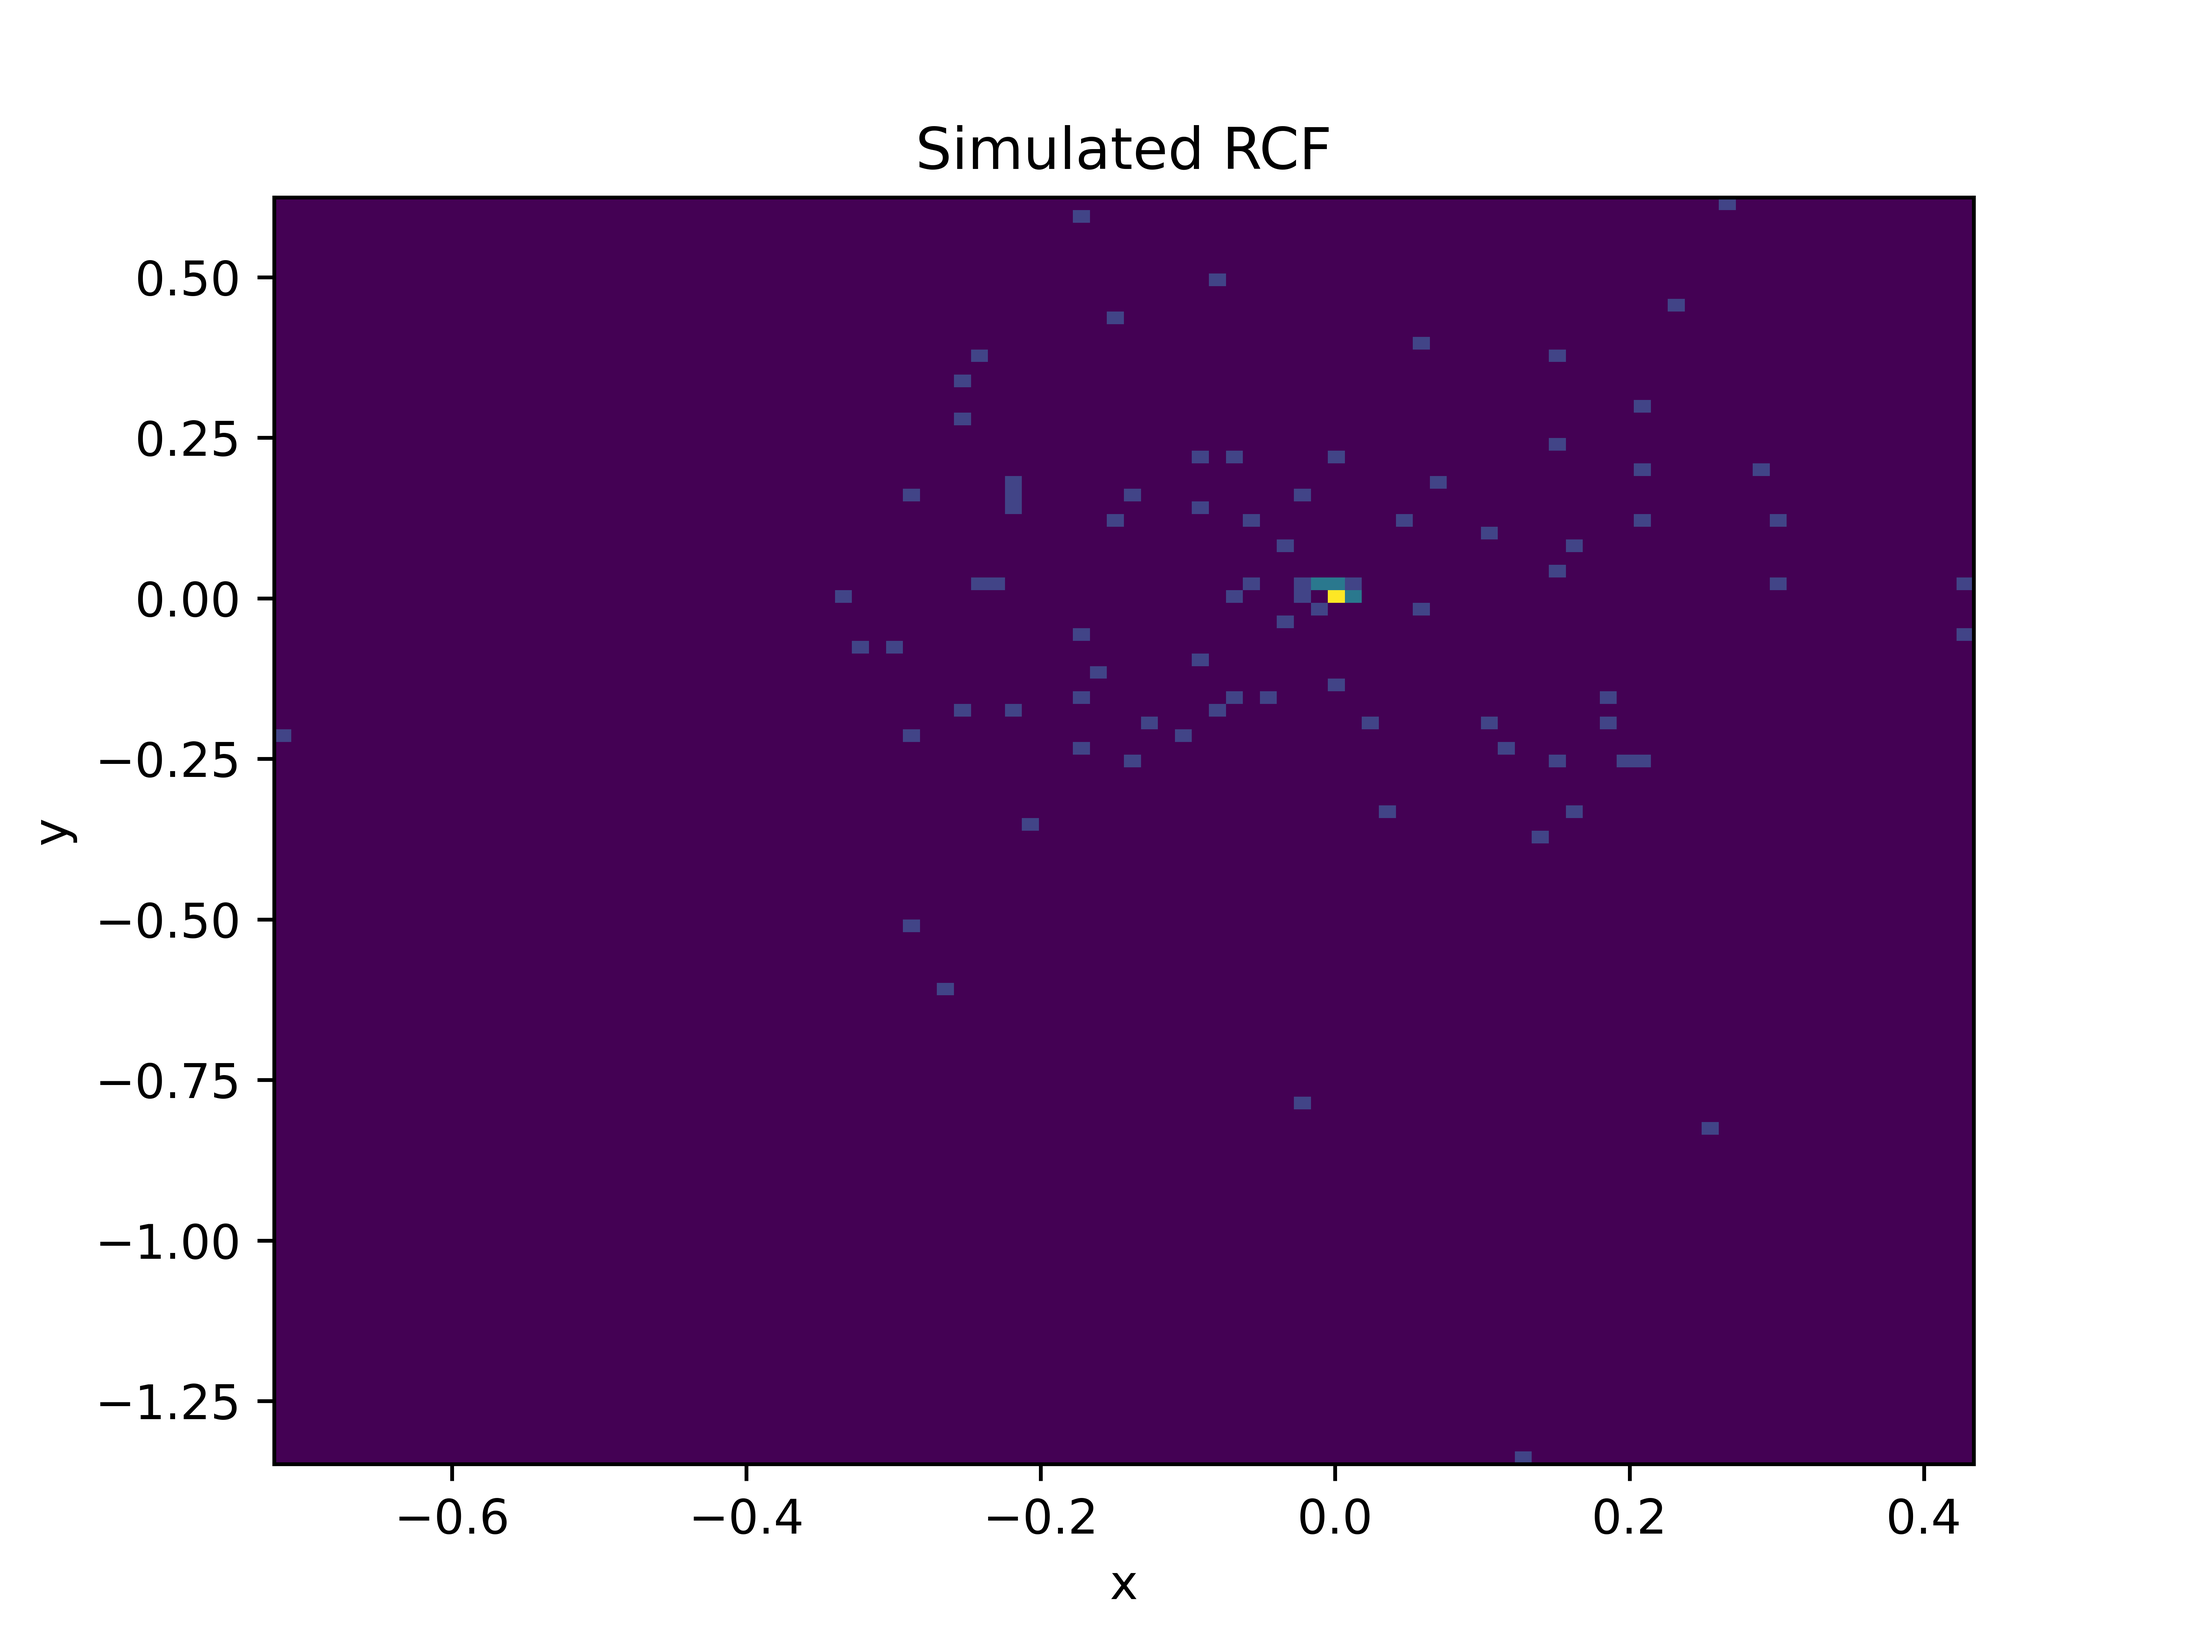
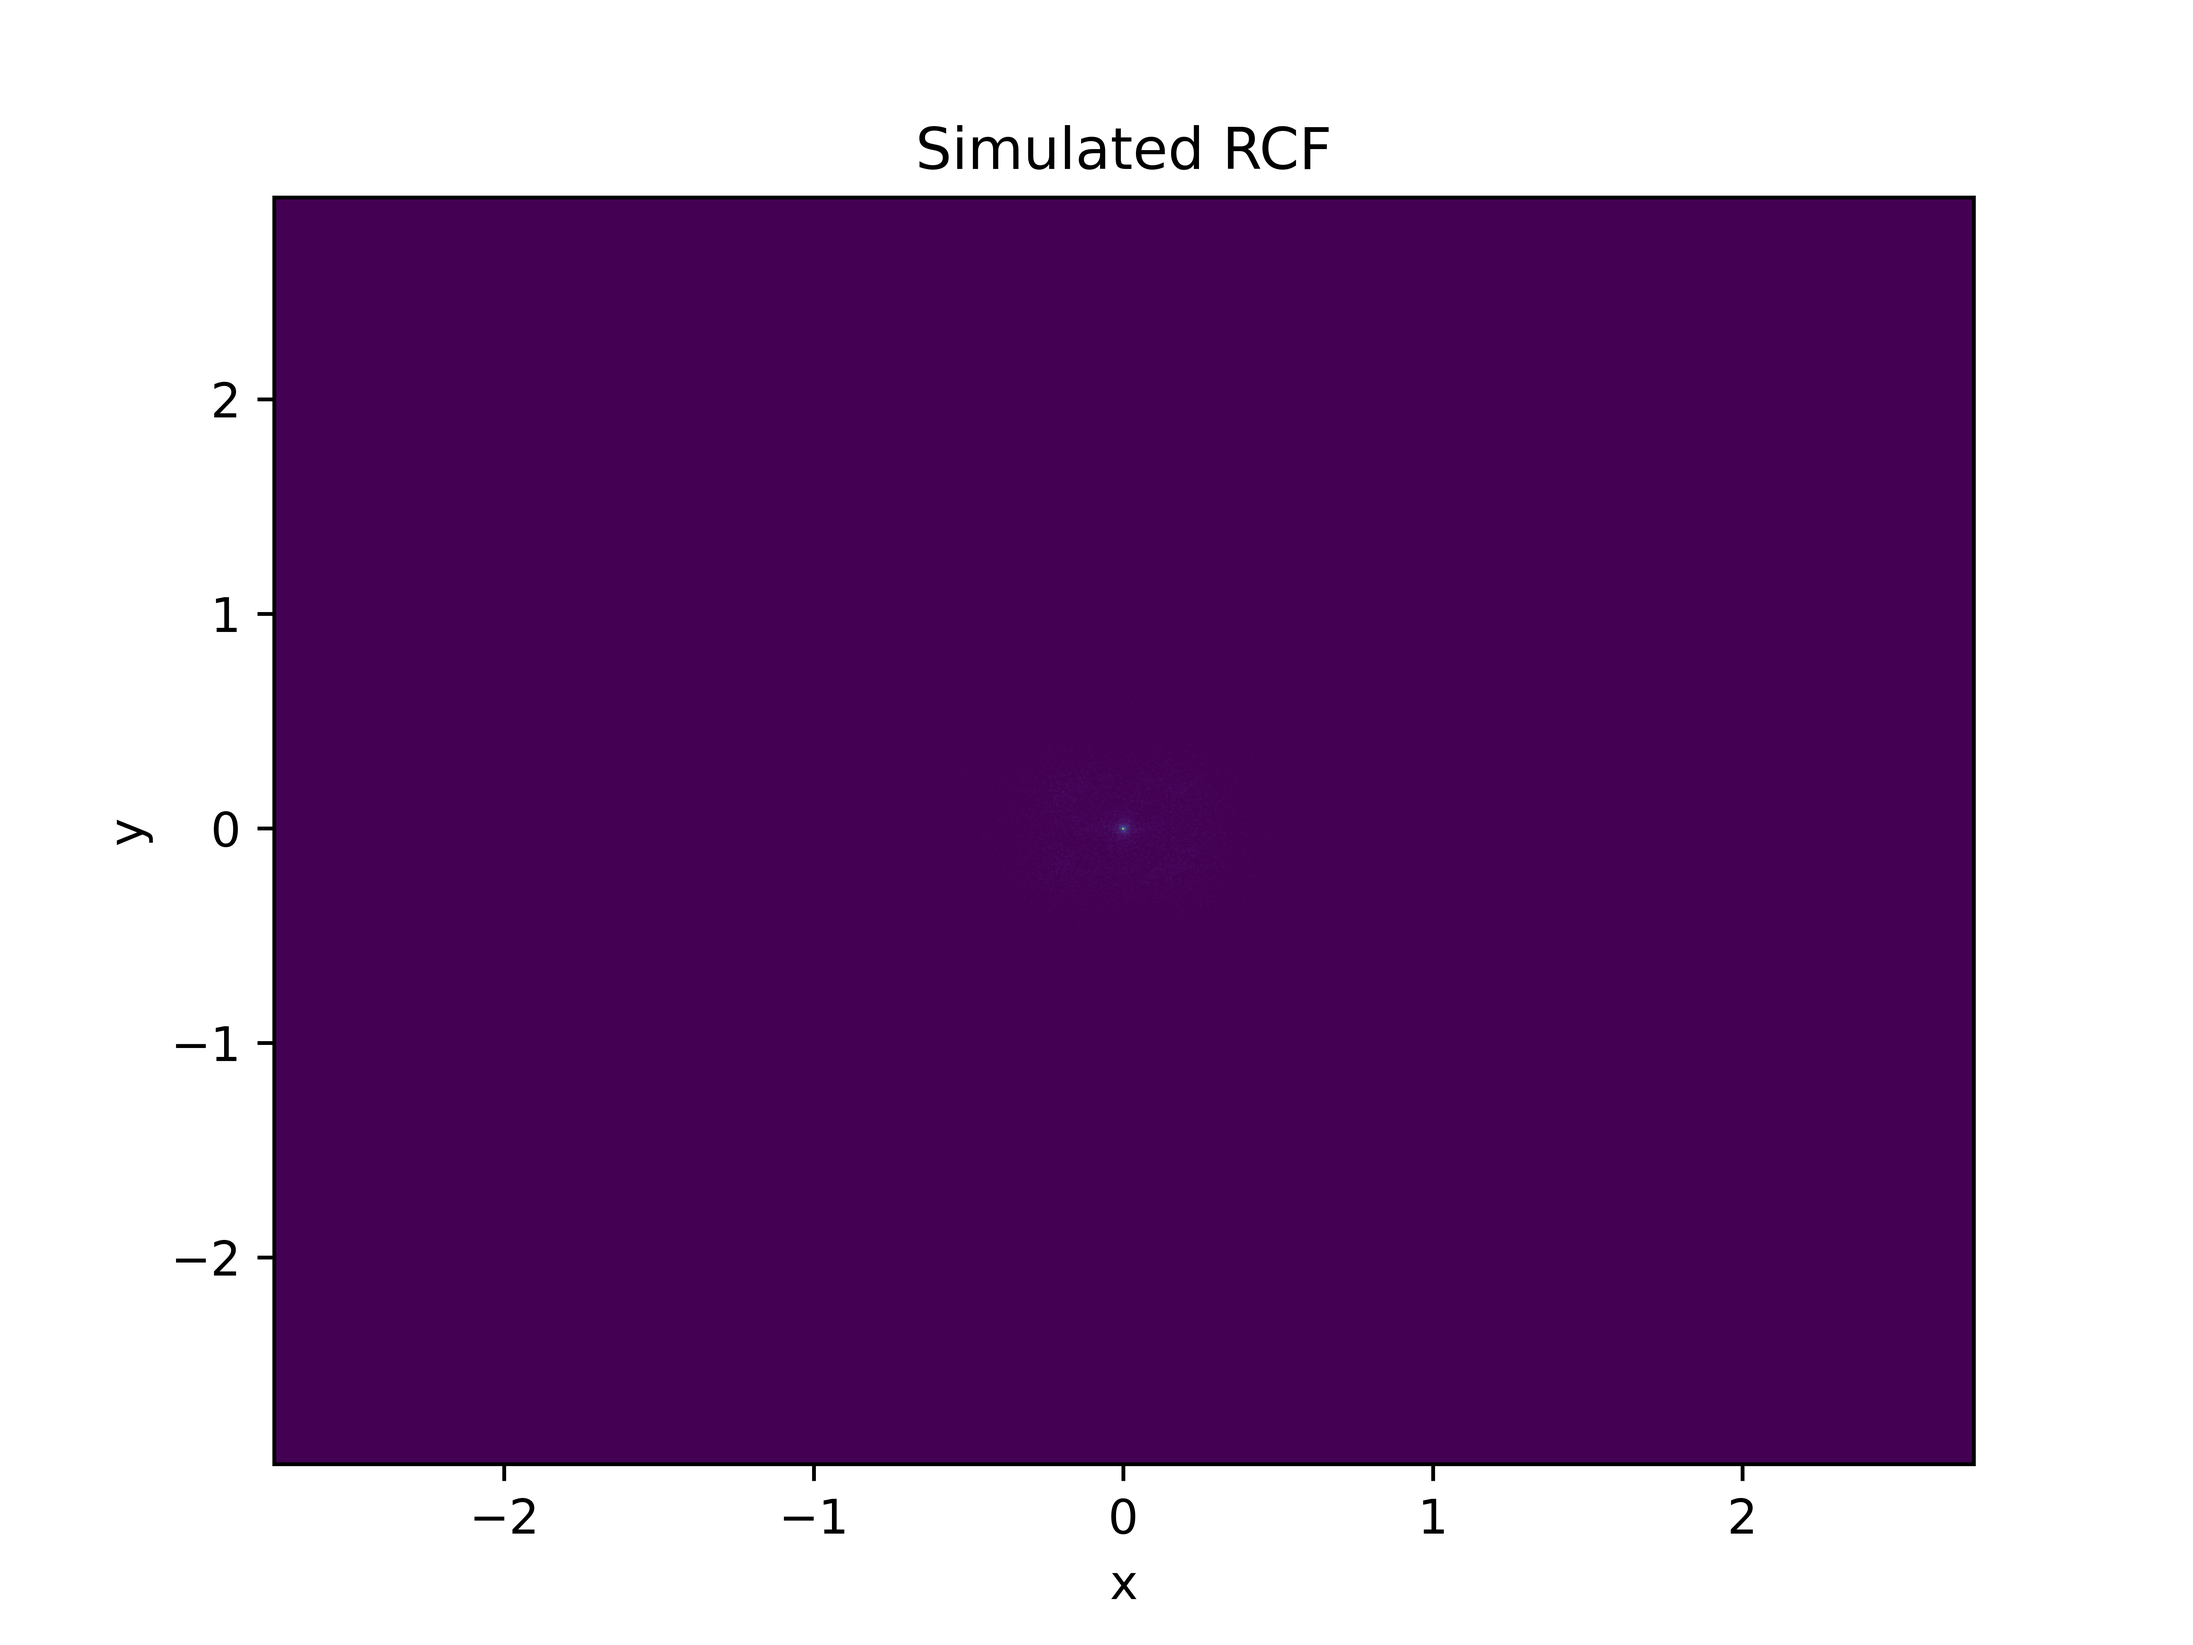
Update README

diff --git a/BB_RCF.py b/BB_RCF.py
@@ -159,8 +159,7 @@ class ProtonBeam():
                 if proton.pos()[2] <= 0:
                     detected += 1
                     print(f"Proton {detected} detected.")
-                    if np.abs(proton.pos()[0]) < 3 and np.abs(proton.pos()[1]) < 3:
-                        positions.append(proton.pos()[:2])
+                    positions.append(proton.pos()[:2])
                     self.__protons.pop(i)
                 elif proton.vel()[2] >= 0:
                     self.__protons.pop(i)
@@ -171,7 +170,7 @@ class ProtonBeam():
         if plot:
             plt.figure()
             plt.title("Simulated RCF")
-            plt.hist2d(positions[:, 0], positions[:, 1], bins = 100)
+            plt.hist2d(positions[:, 0], positions[:, 1], bins = 1000)
             plt.xlabel("x")
             plt.ylabel("y")
             plt.savefig("RCF.png", dpi = 1000)
@@ -179,6 +178,6 @@ class ProtonBeam():
         return positions
 
 if __name__ == "__main__":
-    sample_beam = ProtonBeam(100, 10)
+    sample_beam = ProtonBeam(10000, 10)
     sample_beam.plot_spectrum()
     position_arr = sample_beam.send_beam()

diff --git a/README.md b/README.md
@@ -2,3 +2,6 @@
 
 - BB_Simple.py: Run sample calculation and plotting of Biermann battery magnetic field from ablation density in laser field
 - BB_RCF.py: Simulate an RCF radiated by protons through Biermann magnetic field.
+
+Output simulated RCF
+![Simulated RCF](https://github.com/EliasFink122/Biermann_Battery/blob/main/RCF.png?raw=true)
